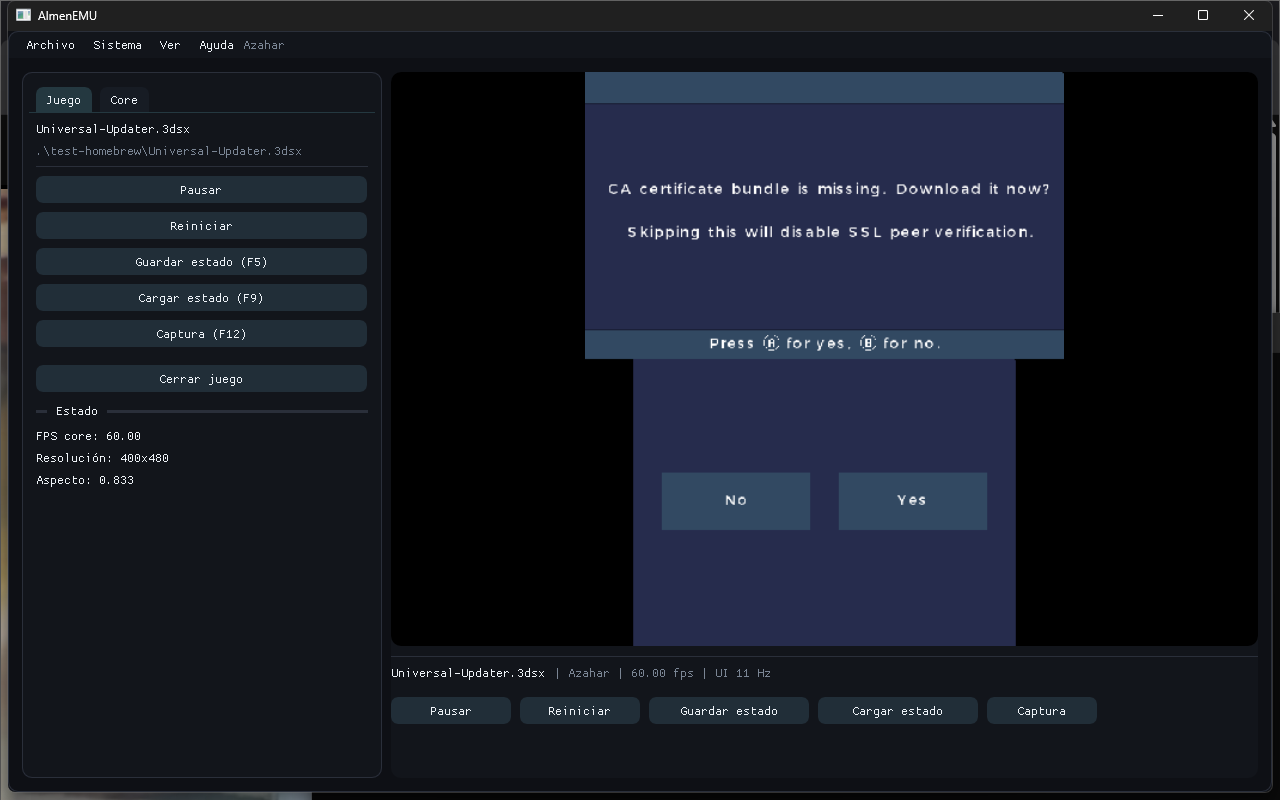
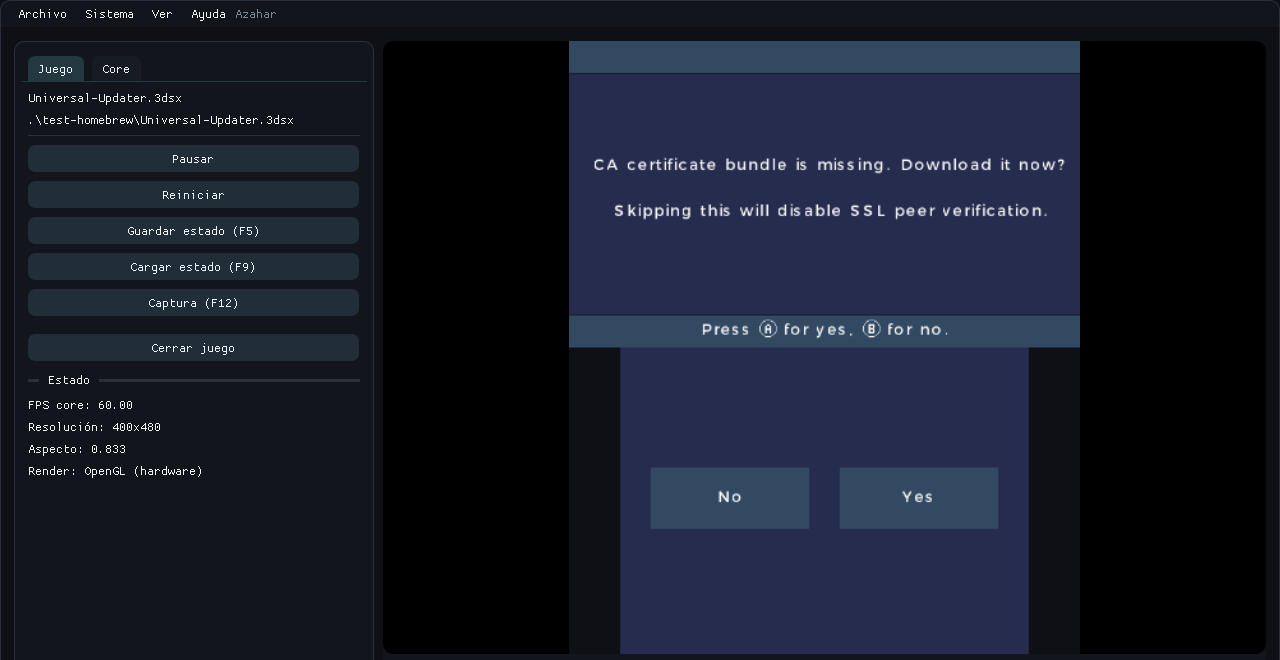
docs: document M2 OpenGL backend and verification

diff --git a/docs/PLAN.md b/docs/PLAN.md
@@ -1,10 +1,10 @@
 # Plan de implementación de AlmenEMU
 
-> **Versión del plan:** 1.1  
-> **Fecha:** 2026-11-10  
-> **Estado:** vivo; se actualiza al cerrar cada hito.  
-> **Revisión 1.1:** coherencia de hitos/releases, arquitectura macOS y backlog ampliado.  
-> **Licencia del proyecto:** GPL-3.0-or-later.  
+> **Versión del plan:** 1.2
+> **Fecha:** 2026-11-10
+> **Estado:** vivo; se actualiza al cerrar cada hito.
+> **Revisión 1.2:** M2 (OpenGL 4.3) implementado y verificado en Windows; Linux pendiente de CI.
+> **Licencia del proyecto:** GPL-3.0-or-later.
 > **Documento relacionado:** [`docs/ARCHITECTURE.md`](ARCHITECTURE.md).
 
 ---
@@ -95,7 +95,8 @@ estimaciones de este documento son indicativas, no compromisos de fecha.
 | Ventana y UI base | Completo | SDL3 + Dear ImGui, tema oscuro, menús, panel lateral |
 | Carga de core | Completo | `LibretroCore` con `SDL_LoadObject` y resolución de símbolos |
 | Host libretro | Completo | `LibretroHost`: environment, vídeo, audio, input, opciones |
-| Vídeo software | Completo | XRGB8888, RGB565 y 0RGB1555 → textura SDL3 |
+| Vídeo software | Completo | XRGB8888, RGB565 y 0RGB1555 → textura OpenGL |
+| Render hardware OpenGL | Completo en Windows | FBO propio, `SET_HW_RENDER`, `context_reset`, 60 fps core/UI |
 | Audio | Completo | `SDL_AudioStream`, S16 estéreo, cola limitada a ~500 ms |
 | Input | Completo (base) | Teclado + SDL_Gamepad, RetroPad, ejes analógicos |
 | Opciones del core | Completo (base) | `SET_VARIABLES`, V1, V2 e INTl; combos en UI |
@@ -104,7 +105,7 @@ estimaciones de este documento son indicativas, no compromisos de fecha.
 | Recientes | Completo | `config/recent.txt`, máx. 12 |
 | Diálogos y drag & drop | Completo | SDL3 file dialog + `SDL_EVENT_DROP_FILE` |
 | Documentación | Completo (base) | README, ARCHITECTURE, PLAN, CHANGELOG, THIRD_PARTY_NOTICES |
-| Verificación funcional | Completo en Windows | Azahar 2126.2 + Universal-Updater 3.4.1 `.3dsx`; Linux/macOS pendientes |
+| Verificación funcional | Completo en Windows | Azahar 2126.2 + Universal-Updater 3.4.1 `.3dsx`; OpenGL 4.3 hardware; Linux/macOS pendientes |
 
 ### 3.2 Hitos cerrados
 
@@ -129,10 +130,26 @@ estimaciones de este documento son indicativas, no compromisos de fecha.
 - [x] Captura de pantalla.
 - [x] UI de bienvenida, recientes e información del core.
 
+#### M2 — Render hardware OpenGL 4.3 (completado en Windows)
+
+- [x] Interfaz `VideoBackend` y `OpenGLBackend`.
+- [x] Contexto OpenGL 4.3 core con fallback 4.1/3.3.
+- [x] FBO propio y `get_current_framebuffer`.
+- [x] `SET_HW_RENDER`, `get_proc_address`, `context_reset` tras `retro_load_game`.
+- [x] Presentación del FBO con UVs correctas para `bottom_left_origin`.
+- [x] Fallback software y opción `--software`.
+- [x] Captura desde FBO en modo hardware.
+- [x] Medición de FPS real de core y UI.
+- [x] Verificado en Windows: 60 fps de core y 60 Hz de UI con Universal-Updater.
+- [ ] Verificación en Linux (pendiente de CI/VM).
+
 ### 3.3 Limitaciones conocidas del MVP
 
-- Solo render **software**: la UI puede bajar de 60 Hz porque el core consume CPU.
+- macOS sigue en render software hasta M3 (Vulkan/MoltenVK).
+- Linux está implementado pero pendiente de verificación en CI/VM.
 - El touchscreen y el C-Stick no están mapeados por completo.
+- Vsync está desactivado; el frame limiter usa `SDL_DelayPrecise`.
+- No hay shaders ni escalado entero configurables.
 - No hay persistencia de opciones del core ni configuración por juego.
 - No hay biblioteca con carátulas/metadatos.
 - No hay empaquetado, CI ni releases.
@@ -152,8 +169,8 @@ estimaciones de este documento son indicativas, no compromisos de fecha.
 
 ### 4.1 Brechas principales
 
-1. **Render hardware**: es la brecha funcional más importante. Sin OpenGL/Vulkan, el
-   rendimiento no es representativo y la UI compite con el render software.
+1. **Render hardware**: OpenGL 4.3 ya está implementado en Windows. Falta verificar
+   Linux y añadir Vulkan/MoltenVK en macOS.
 2. **macOS**: OpenGL 4.3 no existe en macOS; hay que implementar Vulkan/MoltenVK o
    aceptar software. Además, Dynarmic exige entitlement JIT y notarización.
 3. **Persistencia**: opciones del core, configuración por juego, perfiles de mando y
@@ -261,7 +278,11 @@ Puntos críticos:
 - M6 puede empezar en paralelo después de M2; el empaquetado completo espera a M3/M5.
 - M7 cierra cuando M2–M6 están estables.
 
-### M2 — Render hardware OpenGL 4.3 (Windows/Linux) · P0
+### M2 — Render hardware OpenGL 4.3 (Windows/Linux) · P0 · Completado en Windows
+
+> **Estado:** implementado y verificado en Windows (AMD 780M): 60 fps de core y 60 Hz
+> de UI. Linux pendiente de compilación/CI. El detalle técnico está en
+> [`docs/ARCHITECTURE.md`](ARCHITECTURE.md).
 
 **Objetivo:** sustituir el render software por OpenGL 4.3 en Windows/Linux.
 
@@ -269,12 +290,13 @@ Entregables:
 
 - Interfaz `VideoBackend` y selección automática de backend.
 - Contexto OpenGL 4.3 core con SDL3.
-- Implementación de `SET_HW_RENDER`, `context_reset`, `context_destroy`,
-  `get_current_framebuffer` y `get_proc_address`.
+- Implementación de `SET_HW_RENDER`, `context_reset`, `get_current_framebuffer` y
+  `get_proc_address`. `context_destroy` no se invoca al cambiar de juego; el contexto
+  OpenGL vive mientras la app y se destruye al cerrar.
 - Presentación del FBO de Azahar con el layout que elija el core.
 - Fallback a software si OpenGL no está disponible.
 - Onboarding mínimo: seleccionar core, aviso legal y abrir ROM.
-- Prueba con homebrew y al menos un juego comercial propio.
+- Prueba con homebrew; falta validar un juego comercial propio.
 - Documentación de limitaciones.
 
 **Criterio de aceptación:** un juego 3DS corre a velocidad completa con render hardware
@@ -385,6 +407,9 @@ la documentación permite compilar y usar la app sin ayuda externa.
 
 > Estado: **Pendiente** salvo que se indique lo contrario. Los identificadores son
 > estables para referenciarlos en issues y commits.
+>
+> **Completado en M2:** V-01, V-02, C-01, V-04 (fallback), V-07 (base) y V-08 (base).
+> Linux y macOS siguen pendientes de verificación.
 
 ### 7.1 Vídeo
 
@@ -829,12 +854,17 @@ corre a velocidad completa y la UI no se degrada; el fallback software sigue ope
 |---|---|---|
 | Build CMake/MSVC | ✅ | Windows 11, MSVC 2022, CMake 3.31 |
 | Carga de Azahar 2126.2 | ✅ | Windows x64 |
-| Boot de Universal-Updater 3.4.1 `.3dsx` | ✅ | Render software |
+| Boot de Universal-Updater 3.4.1 `.3dsx` | ✅ | Render hardware OpenGL 4.3 |
 | Audio init | ✅ | SDL3, 32.768 Hz |
-| Savestate `F5` | ✅ | ~3,7 MB generado; restauración pendiente de validar |
-| Captura `F12` | ✅ | BMP |
+| Savestate `F5`/`F9` | ✅ | Guardado y restaurado en hardware |
+| Captura `F12` | ✅ | BMP desde FBO (400x480) |
 | Linux/macOS | ⏳ | Pendiente de CI/VM |
-| Render hardware | ⏳ | M2/M3 |
+| Render hardware OpenGL 4.3 | ✅ | Windows, AMD Radeon 780M; core 60 fps / UI 60 Hz |
+| Fallback `--software` | ✅ | Windows; core ~44 fps / UI ~11 Hz |
+| Savestate carga | ✅ | Windows, hardware; estado restaurado |
+| Captura FBO hardware | ✅ | Windows; BMP 400x480 correcto |
+| Linux | ⏳ | Pendiente de CI/VM |
+| Vulkan/macOS | ⏳ | M3 |
 
 ---
 
@@ -849,3 +879,4 @@ los gates de release y el backlog; los cambios se registran en `CHANGELOG.md`.*
 |---|---|---|
 | 1.0 | 2026-11-10 | Plan inicial: alcance, estado, hitos, backlog, riesgos y Git. |
 | 1.1 | 2026-11-10 | Revisión completa: gates de release alineados con hitos; matriz de plataformas/core; core universal macOS; dependencias entre hitos; onboarding mínimo; tareas de pin/hash, savestate atómico, SBOM, accesibilidad de CI y documentación; decisiones abiertas (ADR). |
+| 1.2 | 2026-11-10 | M2 implementado: backend OpenGL 4.3, FBO, fallback software, `--software`, captura FBO, frame pacing y verificación en Windows. Linux/macOS pendientes. |

diff --git a/docs/ARCHITECTURE.md b/docs/ARCHITECTURE.md
@@ -7,14 +7,15 @@
 │ AlmenEMU (C++20 + SDL3 + Dear ImGui)                        │
 │                                                             │
 │  Application                                                │
-│   ├─ ventana / renderer SDL3                                │
-│   ├─ UI ImGui (biblioteca, ajustes, opciones, logs)         │
+│   ├─ ventana + contexto OpenGL 4.3/4.1/3.3                  │
+│   ├─ UI ImGui con backend OpenGL3                           │
 │   ├─ input (teclado + SDL_Gamepad)                          │
+│   ├─ OpenGLBackend (FBO + textura)                          │
 │   └─ LibretroHost                                           │
 │        ├─ LibretroCore  ── dlopen/LoadLibrary ──┐           │
 │        ├─ callbacks environment/video/audio      │           │
 │        ├─ opciones del core                      │           │
-│        └─ framebuffer XRGB8888                   │           │
+│        └─ frames hardware o software             │           │
 └──────────────────────────────────────────────────┼───────────┘
                                                    │
                                     azahar_libretro.dll/.so/.dylib
@@ -32,41 +33,69 @@ y, más adelante, cargar otros cores libretro (Panda3DS, etc.).
 3. Se instalan `retro_set_video_refresh`, audio, input poll/state.
 4. `retro_get_system_info()`.
 5. `retro_load_game()` con `retro_game_info.path` en UTF-8.
-6. `retro_get_system_av_info()`.
-7. Bucle: `retro_run()` a la frecuencia `timing.fps`.
-8. `retro_unload_game()` → `retro_deinit()` → descargar la biblioteca.
+6. `retro_get_system_av_info()` y dimensionado del FBO.
+7. `context_reset()` si el core pidió render hardware.
+8. Bucle: `retro_run()` a la frecuencia `timing.fps`.
+9. `retro_unload_game()` → `retro_deinit()` → descargar la biblioteca.
 
 El host mantiene un puntero estático `s_active` porque libretro no ofrece `userdata` en sus
 callbacks.
 
 ## Vídeo
 
-### MVP actual: software
+### Backend actual: OpenGL
 
-- El core entrega un framebuffer por `retro_video_refresh`.
-- Formatos aceptados: `XRGB8888`, `RGB565` y `0RGB1555`; todos se convierten a `uint32_t`
-  con layout `0x00RRGGBB`.
-- La app crea una textura `SDL_PIXELFORMAT_XRGB8888` y la actualiza con `SDL_UpdateTexture`.
-- ImGui dibuja la textura con la relación de aspecto de `retro_game_geometry`.
-- Azahar compone ambas pantallas según sus propias opciones (`citra_layout_option`,
-  `citra_swap_screen`, `citra_large_screen_proportion`, `citra_render_3d`,
-  `citra_factor_3d`).
+La app crea un contexto **OpenGL 4.3 core** (con fallback a 4.1/3.3) y usa
+`ImGui_ImplOpenGL3` para toda la interfaz. El backend de vídeo es
+`OpenGLBackend` (`src/video/`):
 
-### Siguiente paso: hardware
+- Crea un **FBO propio** con textura `RGBA8`.
+- En `RETRO_ENVIRONMENT_SET_HW_RENDER` rellena `get_current_framebuffer` y
+  `get_proc_address`, pero **no** llama todavía a `context_reset`.
+- Tras `retro_load_game()` y `retro_get_system_av_info()`, dimensiona el FBO con
+  `base_width`/`base_height` y llama a `context_reset()`. Azahar carga el juego dentro de
+  ese callback.
+- El core renderiza en el FBO; el frontend recibe `RETRO_HW_FRAME_BUFFER_VALID` y muestra
+  la textura con ImGui.
+- `bottom_left_origin=true` de Azahar se compensa invirtiendo las coordenadas UV.
+- Si el FBO es mayor que el frame (por ejemplo, single-screen), las UV recortan la región
+  activa.
+- `context_destroy` no se invoca al cambiar de juego: el contexto OpenGL es propiedad de
+  la app y se destruye al cerrar. El core libera sus recursos en `retro_unload_game()`.
+
+### Fallback software
+
+- El core entrega `XRGB8888`, `RGB565` o `0RGB1555` por `retro_video_refresh`.
+- `OpenGLBackend` los convierte a `0xAARRGGBB` y los sube a la misma textura con
+  `glTexSubImage2D`.
+- La UI sigue siendo OpenGL; no se usa `SDL_Renderer`.
+- `--software` fuerza `citra_graphics_api=Software`. También se fuerza si el contexto no
+  llega a OpenGL 4.3 (por ejemplo, macOS 4.1 antes de M3).
+
+### Frame pacing
+
+- Vsync está desactivado (`SDL_GL_SetSwapInterval(0)`): con vsync, un frame de core+UI
+  que roza los 16,6 ms cae a 30 Hz.
+- El bucle limita a ~60 Hz con `SDL_DelayPrecise` y ejecuta los frames de core que
+  correspondan al tiempo transcurrido.
+- Medido en Windows/AMD 780M: **60 fps de core y 60 Hz de UI** con Universal-Updater.
+- El renderer software sigue siendo lento (aprox. 44 fps de core / 11 Hz de UI en el mismo
+  equipo).
+
+### Siguiente paso: macOS (M3)
 
 Azahar llama a `RETRO_ENVIRONMENT_SET_HW_RENDER` durante `retro_load_game` y espera que el
 frontend:
 
-1. Cree un contexto **OpenGL 4.3 core** o **Vulkan 1.1**.
+1. Cree un contexto **Vulkan 1.1** con MoltenVK.
 2. Rellene `retro_hw_render_callback`:
    - `context_reset` → el core crea sus recursos.
    - `context_destroy` → el core libera sus recursos.
-   - `get_current_framebuffer` → FBO actual (OpenGL).
-   - `get_proc_address` → resolver de funciones.
+   - `get_proc_address` y la interfaz de negociación Vulkan.
 3. Llame a `context_reset()` cuando el contexto esté activo.
-4. Trate `RETRO_HW_FRAME_BUFFER_VALID` como “el frame está en el FBO, no en memoria”.
-5. Para Vulkan, implemente también
-   `RETRO_ENVIRONMENT_SET_HW_RENDER_CONTEXT_NEGOTIATION_INTERFACE` y el
+4. Trate `RETRO_HW_FRAME_BUFFER_VALID` como “el frame está en la imagen Vulkan, no en
+   memoria”.
+5. Implemente `RETRO_ENVIRONMENT_SET_HW_RENDER_CONTEXT_NEGOTIATION_INTERFACE` y el
    `retro_hw_render_context_negotiation_interface_vulkan` (instancia, dispositivo,
    colas, extensiones).
 

diff --git a/README.md b/README.md
@@ -4,8 +4,9 @@ Frontend de escritorio para emular **Nintendo 3DS** en Windows, Linux y macOS.
 Usa como motor el core **libretro de Azahar** (GPL-3.0) y añade una interfaz propia,
 gestión de biblioteca, opciones del core, audio, mandos y savestates.
 
-> Estado: **MVP funcional**. Funciona con el renderer software del core. El siguiente
-> paso es implementar el render hardware (OpenGL 4.3 / Vulkan 1.1) para rendimiento real.
+> Estado: **M2 implementado**. Render hardware **OpenGL 4.3** en Windows/Linux
+> (verificado en Windows) y fallback software. macOS seguirá usando software hasta M3
+> (Vulkan + MoltenVK).
 >
 > Plan completo, backlog y criterios de release: [`docs/PLAN.md`](docs/PLAN.md).
 
@@ -16,7 +17,8 @@ gestión de biblioteca, opciones del core, audio, mandos y savestates.
 ## Qué incluye
 
 - Carga dinámica de cualquier core libretro; por defecto busca `azahar_libretro`.
-- Render software con conversión a `XRGB8888`, escalado y pantalla dual.
+- Render hardware OpenGL 4.3 con FBO propio y fallback software.
+- Presentación OpenGL 3.3+ para la UI (ImGui).
 - Audio S16 estéreo con cola y limitación de latencia.
 - Teclado y mandos SDL3 (layout Nintendo).
 - Opciones del core expuestas en la UI (`SET_CORE_OPTIONS_V2`).
@@ -31,6 +33,7 @@ gestión de biblioteca, opciones del core, audio, mandos y savestates.
 - Compilador con C++20 (MSVC 2022, GCC 12+, Clang 15+).
 - Git y conexión a internet la primera vez (CMake descarga SDL3 e ImGui).
 - Python 3 opcional, para descargar el core.
+- GPU con **OpenGL 3.3+** para la interfaz; **OpenGL 4.3** para el render hardware.
 - El core **Azahar libretro** para tu plataforma.
 
 ### Dependencias en Linux (Debian/Ubuntu)
@@ -95,6 +98,13 @@ El core también se puede seleccionar desde **Archivo → Seleccionar core...** 
 ./AlmenEMU --core cores/azahar_libretro.so /ruta/juego.3ds
 ```
 
+Para forzar el renderer software del core (útil para diagnosticar o en GPUs sin
+OpenGL 4.3):
+
+```bash
+./AlmenEMU --software --core cores/azahar_libretro.so /ruta/juego.3ds
+```
+
 ## Uso
 
 1. Abre **Archivo → Abrir ROM...** o arrastra un `.3ds`, `.cci`, `.cxi`, `.app`, `.cia`
@@ -126,9 +136,11 @@ El stick izquierdo es el Circle Pad y el derecho el C-Stick.
 
 ```text
 src/
-  app/Application.*      ventana, UI, input, biblioteca, hotkeys
+  app/Application.*      ventana, contexto OpenGL, UI, input, hotkeys
   core/LibretroCore.*    carga dinámica del .dll/.so/.dylib
   core/LibretroHost.*    callbacks libretro, vídeo, audio, opciones
+  video/VideoBackend.h   interfaz de presentación
+  video/OpenGLBackend.*  FBO, texturas, contexto hardware y fallback software
   main.cpp
 third_party/libretro/    cabecera MIT de libretro
 cores/                   cores locales (ignorados por git)
@@ -141,7 +153,7 @@ docs/                    capturas y documentación
 - [x] Carga de core y ROM.
 - [x] Render software, audio, teclado, mando, savestates y capturas.
 - [x] Opciones del core y lista de recientes.
-- [ ] Render hardware OpenGL 4.3 en Windows/Linux.
+- [x] Render hardware OpenGL 4.3 en Windows/Linux (verificado en Windows; Linux pendiente de CI).
 - [ ] Render Vulkan 1.1 + MoltenVK en macOS.
 - [ ] Touchscreen y C-Stick completos.
 - [ ] Configuración por juego y perfiles de mandos.
@@ -153,11 +165,16 @@ docs/                    capturas y documentación
 
 ## Notas técnicas
 
-- El core de Azahar **no es un framebuffer simple**: en modo hardware usa
-  `RETRO_ENVIRONMENT_SET_HW_RENDER` y espera que el frontend cree el contexto y llame a
-  `context_reset`. Este MVP fuerza `citra_graphics_api=Software`.
+- El core de Azahar usa `RETRO_ENVIRONMENT_SET_HW_RENDER`. El frontend crea el contexto,
+  entrega un FBO propio mediante `get_current_framebuffer`, llama a `context_reset` tras
+  `retro_load_game` y presenta el FBO con ImGui. El renderer software sube el framebuffer
+  del core a una textura.
+- El contexto de UI pide OpenGL 4.3, con fallback a 4.1/3.3. Si no hay 4.3, el core se
+  fuerza a `Software`.
+- Vsync está desactivado y el bucle se limita a ~60 Hz con `SDL_DelayPrecise`; así se
+  evita la caída a 30 Hz cuando un frame de core+UI roza el intervalo de refresco.
 - En macOS no se puede usar OpenGL 4.3 (el máximo es 4.1). Para hardware hay que usar
-  Vulkan con MoltenVK, o quedarse con software.
+  Vulkan con MoltenVK, o quedarse con software (M3).
 - Los cores de release de Azahar para Windows/Linux son x86_64. En Linux ARM64 hay que
   compilar Azahar desde fuente con `-DENABLE_LIBRETRO=ON`.
 

diff --git a/CHANGELOG.md b/CHANGELOG.md
@@ -12,11 +12,19 @@ y el versionado usa [Semantic Versioning](https://semver.org/lang/es/).
 - Backlog priorizado, hitos, criterios de release y checklist GPL.
 - Revisión 1.1 del plan: gates alineados, matriz de plataformas/core macOS,
   dependencias entre hitos y decisiones abiertas (ADR).
+- Backend de vídeo OpenGL con FBO propio y render hardware de Azahar.
+- Fallback software y opción `--software`.
+- Presentación de la UI con `ImGui_ImplOpenGL3`.
+- Medición de FPS real del core y de la UI.
+- Captura desde el FBO en modo hardware.
 
 ### Changed
 
 - README enlaza el plan y el estado del proyecto.
 - Normalización de finales de línea con `.gitattributes`.
+- La UI deja de usar `SDL_Renderer`; usa un contexto OpenGL 4.3/4.1/3.3.
+- Vsync desactivado y frame limiter a ~60 Hz para evitar la caída a 30 Hz.
+- El FBO se dimensiona con la resolución base actual, no con el máximo teórico.
 
 ## [0.1.0] - 2026-11-10
 
